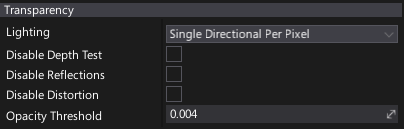
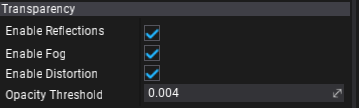
Update material properties docs

diff --git a/manual/graphics/materials/material-properties/index.md b/manual/graphics/materials/material-properties/index.md
@@ -10,11 +10,20 @@ This page breaks down all the available material properties. These options are a
 
 | Property | Description |
 |--------|--------|
-| **Domain** | Specifies how material is going to be used. Certain materials used for postFx or 2D rendering requrie additional instructions for the rendering pipeline to be generated. Because of this, it's important to specify material domain that covers those cases. Possible options: <table><tbody><tr><th>Option</th><th>Description</th></tr><tr><td>**Surface**</td><td>Used for object's surface materials (e.g. meshes). This is a default value.</td></tr><tr><td>**Post Process**</td><td>Used for the [Post Process Materials](../../post-effects/post-fx-materials.md)</td></tr><tr><td>**Decal**</td><td>Used for the [Decal Materials](../../decals/index.md)</td></tr><tr><td>**GUI**</td><td>Used for custom shader rendering in GUI.</td></tr></tbody></table>|
-| **Blend Mode** | Specifies how blend material with the environment. Possible options: <table><tbody><tr><th>Option</th><th>Description</th></tr><tr><td>**Opaque**</td><td>The opaque material. Used during *GBuffer* pass rendering. This is a default value.</td></tr><tr><td>**Transparent**</td><td>The transparent material. Used during *Forward* pass rendering.</td></tr><tr><td>**Additive**</td><td>The additive blend. Material color is used to add to color of the objects behind the surface. Used during Forward pass rendering.</td></tr><tr><td>**Multiply**</td><td>The multiply blend. Material color is used to multiply color of the objects behind the surface. Used during Forward pass rendering.</td></tr></tbody></table>To learn more about blend modes see the related documentation [here](../blend-modes/index.md).|
+| **Domain** | Specifies how material is going to be used. Certain materials used for postFx or 2D rendering requrie additional instructions for the rendering pipeline to be generated. Because of this, it's important to specify material domain that covers those cases. Possible options: <table><tbody><tr><th>Option</th><th>Description</th></tr><tr><td>**Surface**</td><td>The surface material. Can be used to render the scene geometry including models and skinned models.</td></tr><tr><td>**Post Process**</td><td>The [Post Process Material](../../post-effects/post-fx-materials.md). Can be used to perform custom post-processing of the rendered frame.</td></tr><tr><td>**Decal**</td><td>The [Decal Material](../../decals/index.md). Can be used to apply custom overlay or surface modifications to the object surfaces in the world.</td></tr><tr><td>**GUI**</td><td>The GUI shader. Can be used to draw custom control interface elements or to add custom effects to the GUI.</td></tr><tr><td>**Terrain**</td><td>The terrain shader. Can be used only with landscape chunks geometry that use optimized vertex data and support multi-layered blending.</td></tr><tr><td>**Particle**</td><td>The particle shader. Can be used only with particles geometry (sprites, trails and ribbons). Supports reading particle data on a GPU.</td></tr></tbody></table>|
 | **Shading Model** | Specifies how material inputs and properties are combined to result the final surface color. Possible options: <table><tbody><tr><th>Option</th><th>Description</th></tr><tr><td>**Unlit**</td><td>The unlit material. Emissive channel is used as an output color. Can perform custom lighting operations or just glow. Won't be affected by the lighting pipeline.</td></tr><tr><td>**Lit**</td><td>The default lit material. The most common choice for the material surfaces.</td></tr><tr><td>**Subsurface**</td><td>The subsurface material. Intended for materials like vax or skin that need light scattering to transport simulation through the object.</td></tr></tbody></table>To learn more about shading models see the related documentation [here](../shading-models/index.md).|
-| **Two Sided** | If checked, geometry using this material will be rendered with triangle faces culling disabled. This is commonly used option for foliage materials to keep from having double up the number of rendered polygons. However, two sided materials may not work correcly with static lighting, since mesh still uses only a single lightmap UVs channel. As a result, two sided materials with static lightmap wll be shaded the same on both sides.|
+| **Blend Mode** | Specifies how blend material with the environment. Possible options: <table><tbody><tr><th>Option</th><th>Description</th></tr><tr><td>**Opaque**</td><td>The opaque material. Used during *GBuffer* pass rendering. This is a default value.</td></tr><tr><td>**Transparent**</td><td>The transparent material. Used during *Forward* pass rendering.</td></tr><tr><td>**Additive**</td><td>The additive blend. Material color is used to add to color of the objects behind the surface. Used during Forward pass rendering.</td></tr><tr><td>**Multiply**</td><td>The multiply blend. Material color is used to multiply color of the objects behind the surface. Used during Forward pass rendering.</td></tr></tbody></table>To learn more about blend modes see the related documentation [here](../blend-modes/index.md).|
+
+## Rendering
+
+![Rendering](../media/properties-rendering.png)
+
+| Property | Description |
+|--------|--------|
+| **Cull Mode** | Defines the primitives culling mode used during geometry rendering. |
 | **Wireframe** | If checked, geometry using this material will be rendered in wireframe mode without a solid triangles fill. |
+| **Depth Test** | If checked, enables performing depth test during material rendering. |
+| **Depth Write** | If checked, enables writing to the depth buffer during material rendering. |
 
 ## Transparency
 
@@ -22,10 +31,9 @@ This page breaks down all the available material properties. These options are a
 
 | Property | Description |
 |--------|--------|
-| **Lighting** | Specifies lighting mode for transparent materials. Possible options: <table><tbody><tr><th>Option</th><th>Description</th></tr><tr><td>**None**</td><td>Shading is disabled.</td></tr><tr><td>**Single Directional Per Pixel**</td><td>Shading is performed per pixel for single directional light.</td></tr></tbody></table>|
-| **Disable Depth Test** | If checked, disables depth test when rendering material. |
-| **Disable Reflections** | If checked, disables reflections when rendering material. |
-| **Disable Distortion** | If checked, disables distortion effect when rendering material. |
+| **Enable Reflections** | If checked, enables reflections when rendering material. |
+| **Enable Fog** | If checked, enables fog effect when rendering material. |
+| **Enable Distortion** | If checked, enables distortion effect when rendering material. |
 | **Opacity Threshold** | Controls opacity values clipping point. |
 
 ## Tessellation
